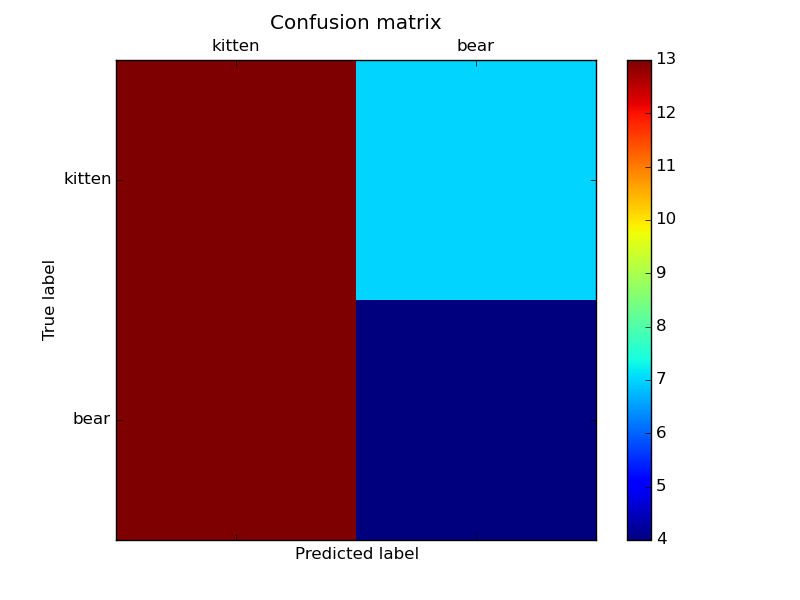
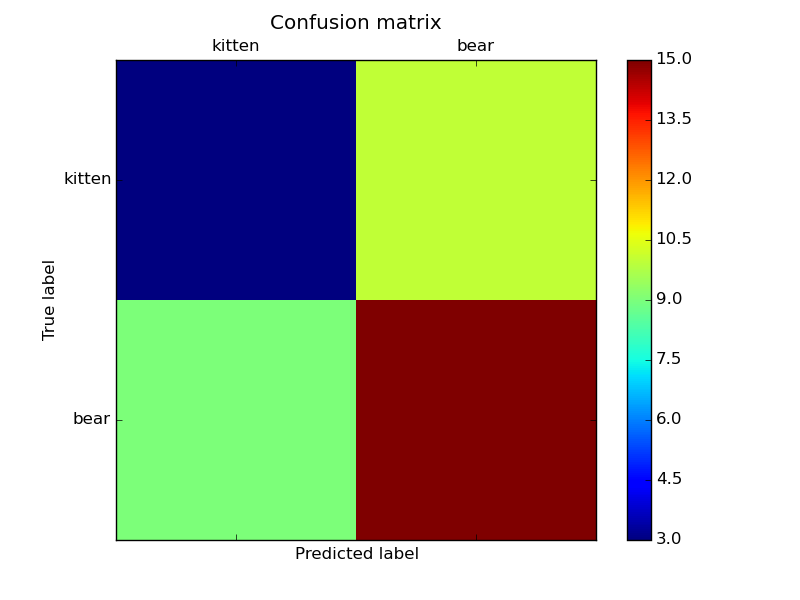
re-rendered pipeline graph

diff --git a/README.md b/README.md
@@ -4,7 +4,7 @@
 
 # The Pipeline
 
-![Pipeline diagram](/kitten-or-bear-classifier/metrics/figures/pipeline.png)
+![Pipeline diagram](metrics/figures/pipeline.png)
 
 
 ## Kitten vs bear classifier
@@ -41,5 +41,5 @@ Installing caffe is quite involved, so you may find it easier to use a
 
 Confusion matrix:
 
-[[13  7]
- [13  4]]
+[[ 3 10]
+ [ 9 15]]

diff --git a/metrics/pipeline_graph.md b/metrics/pipeline_graph.md
@@ -2,4 +2,4 @@
 
 # The Pipeline
 
-![Pipeline diagram](/kitten-or-bear-classifier/metrics/figures/pipeline.png)
+![Pipeline diagram](metrics/figures/pipeline.png)

diff --git a/metrics/image_classifier_confusion.md b/metrics/image_classifier_confusion.md
@@ -2,5 +2,5 @@
 
 Confusion matrix:
 
-[[13  7]
- [13  4]]
+[[ 3 10]
+ [ 9 15]]
